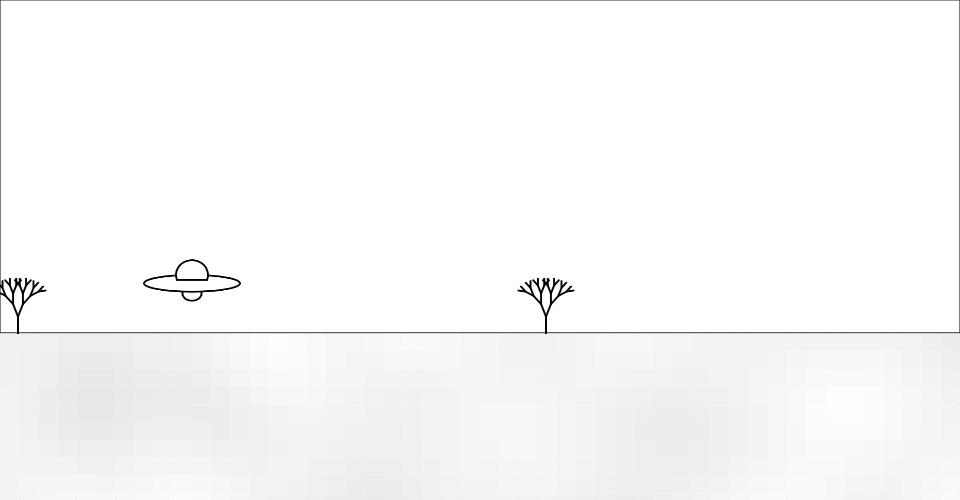
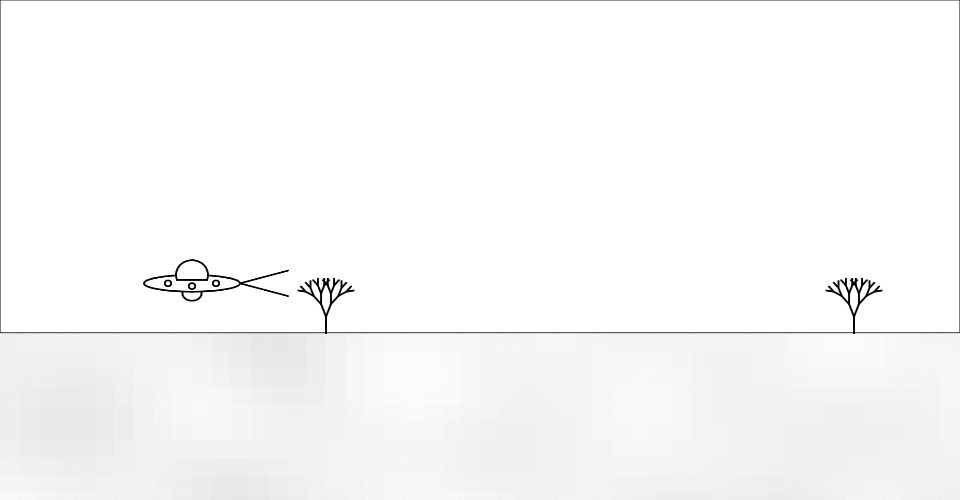
tried adding roving scanner

diff --git a/draw_one_frame.js b/draw_one_frame.js
@@ -6,11 +6,10 @@ function draw_one_frame(cur_frac) {
 	fill(255,255,255);
 	rectMode(CORNER);
 	rect(0,0,width,height);
-	//rectMode(CENTER);
 	
 	push(); 
 	translate(0, canvasHeight/6);
-	//fill(0,0,0);
+	
 	drawCharacter();
 	drawGround();
 	drawTree();
@@ -40,22 +39,34 @@ function drawCharacter(){
 	else{
 		characterY=groundY-(canvasHeight/10);
 	}
-	//ellipse(width/5,characterY-canvasHeight/50,width/30);//top dome
 	
-	ellipse(width/5,characterY+canvasHeight/50,width/50,width/60);//bottom dome
-	ellipse(width/5,characterY,width/10,canvasHeight/30);//main body
-	arc(width/5,characterY-canvasHeight/60,width/30,width/30,160,20,CHORD);//top dome
-	//ellipse()
-// 	ellipse(width/5.2,characterY+canvasHeight/18,canvasHeight/20,width/24);//body 
-// 	curve(width, 5, 26, 73, 24, 73, 61);
+	let shipX=width/5;
+	let shipWidth=width/10;
+	let lightDomewidth=width/50;
+	ellipse(shipX,characterY+canvasHeight/50,lightDomewidth,width/60);//bottom dome
+	ellipse(shipX,characterY,shipWidth,canvasHeight/30);//main body
+	arc(shipX,characterY-canvasHeight/60,width/30,width/30,160,20,CHORD);//top dome
 	
-// //head:
-// rect(width/5,characterY,width/24,canvasHeight/20,20);//head outline
-// 	ellipse(width/5-width/80, characterY, width/80);//outer eye
-// 	ellipse(width/5-width/80, characterY, width/200);//inner eye
-// 	line(width/5,characterY+canvasHeight/50,(width/5)+(width/63), characterY+canvasHeight/50);//mouth
+	//small circles on the body:
+	ellipse(shipX,characterY+canvasHeight/180,width/150);// centre small circle
+	ellipse(shipX-width/40,characterY,width/150);//left
+	ellipse(shipX+width/40,characterY,width/150);//right
 
-// //rect(width/5,characterY,width/20,canvasHeight/5);
+	// //fill(242, 226, 5);
+	// beginShape();
+
+	// endShape();
+	let scanlineY;
+	if(frameNo<12){
+		scanlineY=map(frameNo, 0, 11, 0, canvasHeight/25);
+	}
+	else {
+		scanlineY=map(frameNo, 12, 24,canvasHeight/25,0);
+	}
+	line(shipX+shipWidth/2,characterY,shipX+shipWidth,characterY+scanlineY);
+	line(shipX+shipWidth/2,characterY,shipX+shipWidth,characterY-scanlineY);
+
+
 }
 function drawGround(cur_frac){
 	line(0, groundY, width, groundY);
@@ -68,7 +79,7 @@ function drawGround(cur_frac){
 	fill(mainColor);
 	rectMode(CORNER);
 	for(let x = 0; x <=width/pixelSize; x++ ){
-		for(let y = 0; y +1 < height /pixelSize; y++){		
+		for(let y = 0; y +1 < (height-groundY-canvasHeight/7) /pixelSize; y++){		
 			
 		noiseColor = getNoiseValue(pixelSize*x,pixelSize*y, 0.8, "noiseColor",0,1, 200 );
 		noiseLerp = lerpColor(mainColor,backupColor,noiseColor);

diff --git a/README.md b/README.md
@@ -1,1 +1,1 @@
-I swapped the dinosaur for a space ship which I think works way better and also helps my own originality. It was suggested as part of crit and I think it works so much better 
+I expreimented with added some small circles as extra details to the ufo which I think look better. I also tried adding kind of a roving scanner effect out front of the ufo which doesn't work at all. 
